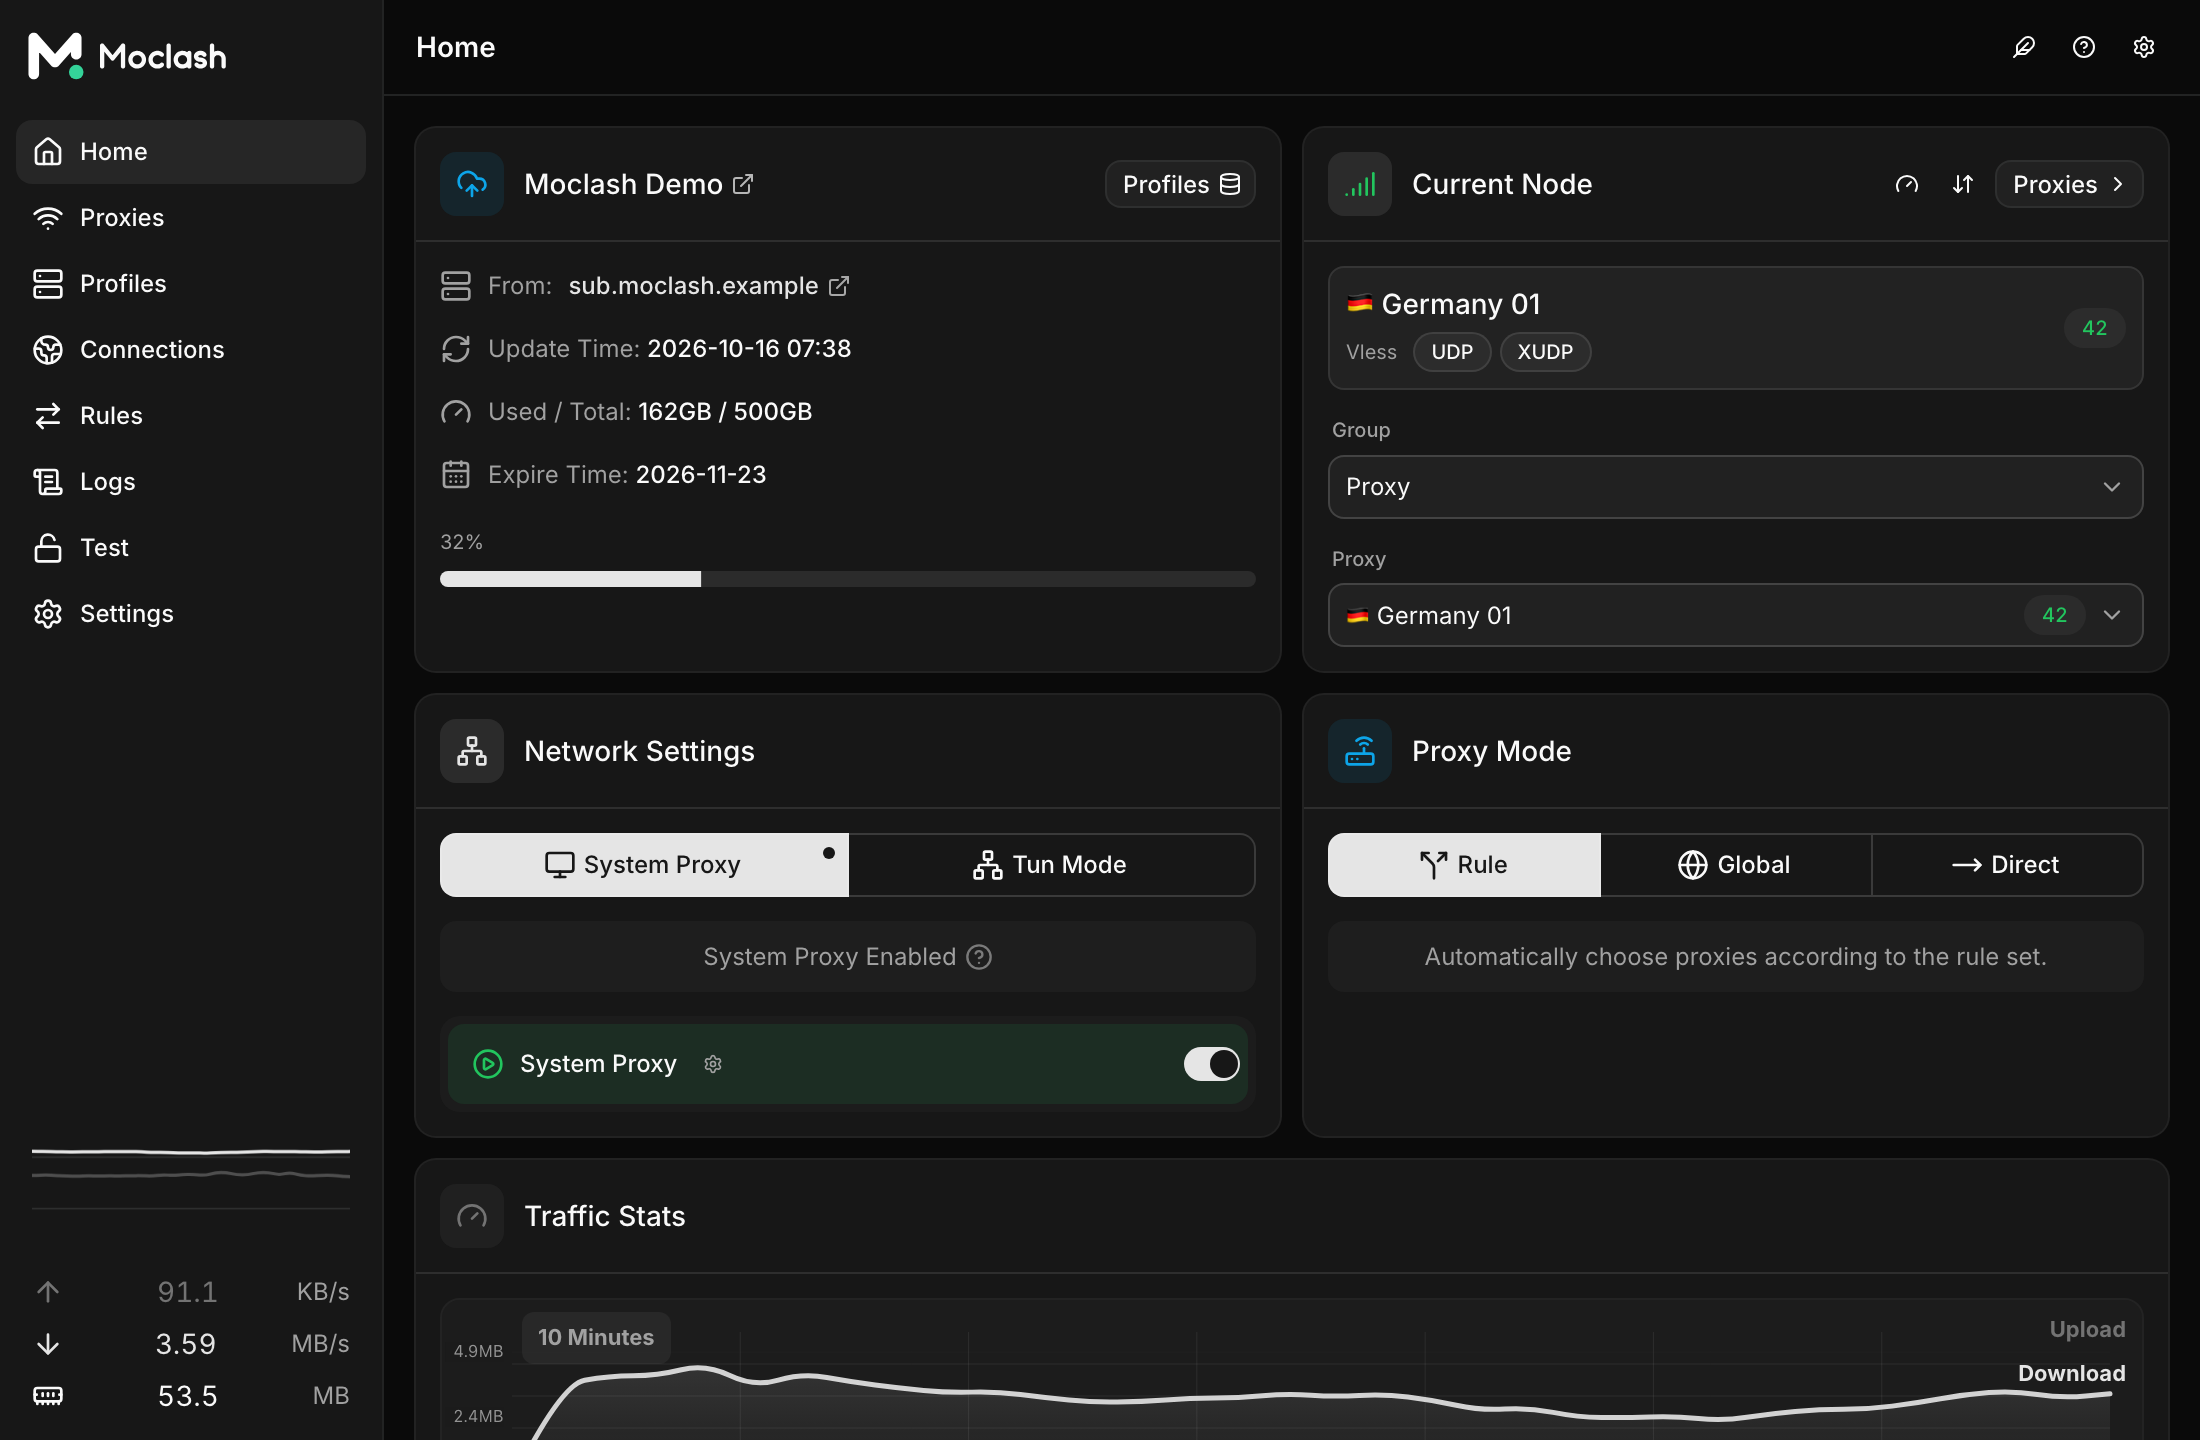
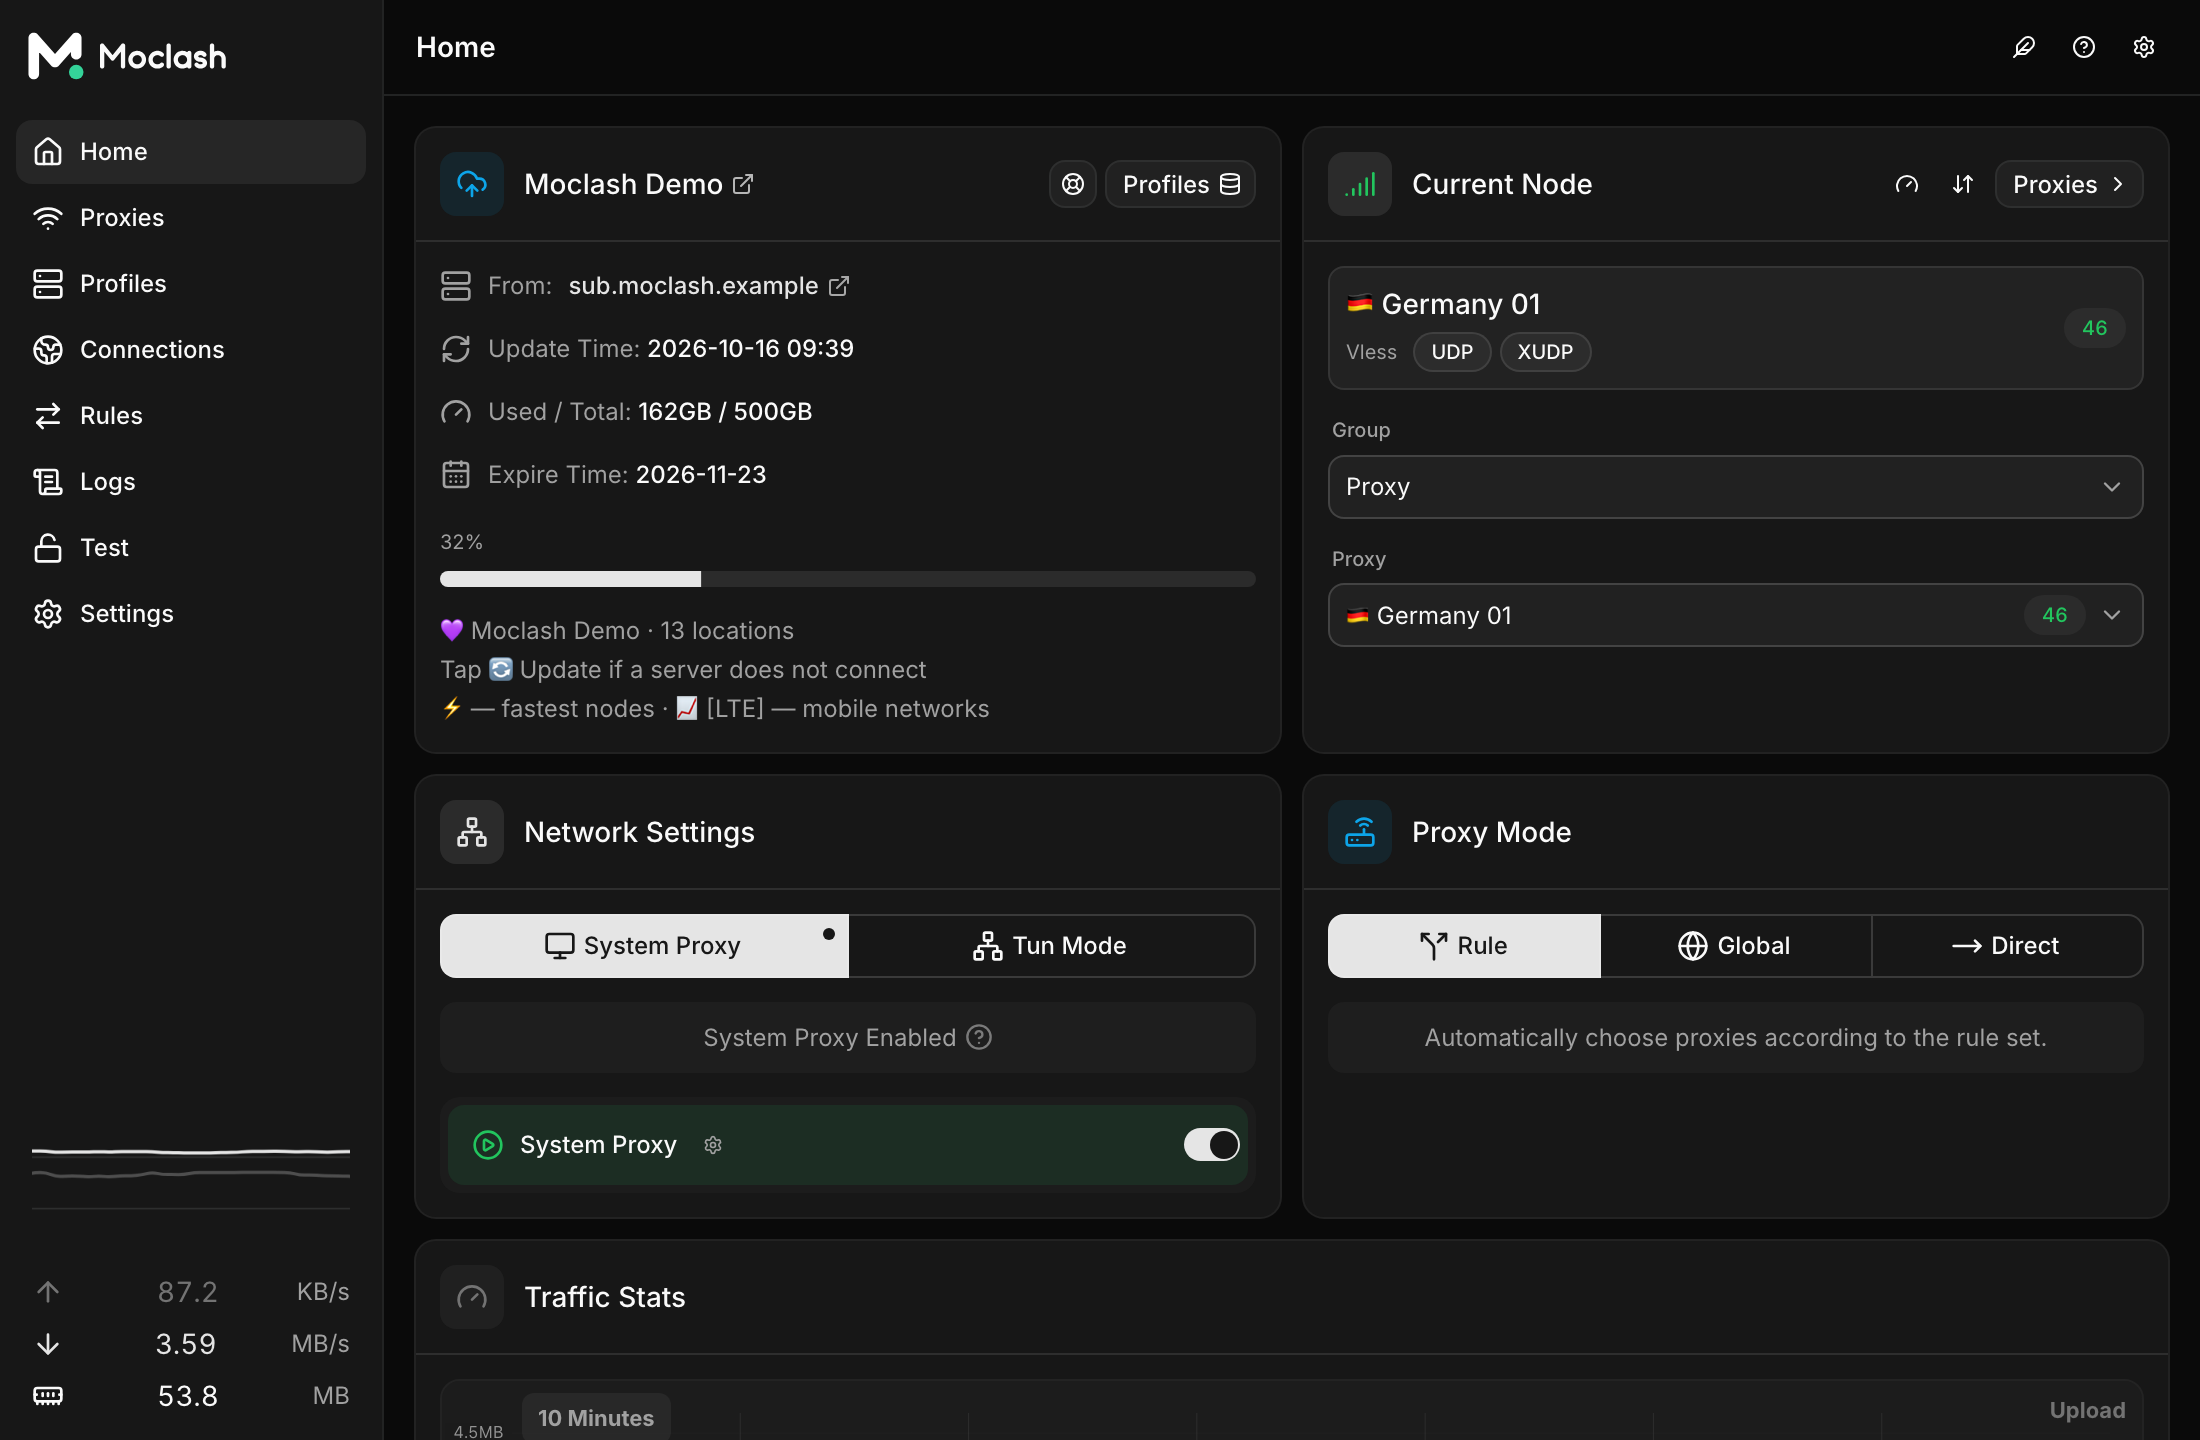
chore(release): v1.0.0
Start the Moclash version line at 1.0.0, finalize the changelog and
refresh the README screenshots and feature descriptions.

diff --git a/README.md b/README.md
@@ -65,6 +65,10 @@ xattr -cr "/Applications/Moclash.app"
 - Tray quick panel for switching the proxy mode and server without opening
   the main window (see below), plus the tray menu and global hotkeys.
 - **Send HWID** for subscriptions that enforce device limits (see below).
+- **Happ compatibility mode** that fetches the full Xray server list from
+  Remnawave-style panels and converts it to Mihomo (see below).
+- Subscription announcements, support links and titles sent by Remnawave
+  panels are shown on the profile cards.
 
 ## Tray quick panel
 
@@ -106,6 +110,27 @@ The HWID is derived from the operating system's machine ID (Windows
 and shortened to 16 hex characters, so the raw machine ID never leaves the
 device. You can override it with a custom HWID in the same settings section.
 The setting is off by default.
+
+## Happ compatibility mode
+
+Some subscription panels, such as Remnawave, return a different server list
+depending on the client. Mihomo clients may get a reduced YAML config, while
+Happ gets the complete list as Xray JSON, including VLESS XHTTP, VLESS
+Encryption and Trojan REALITY servers.
+
+Enable **Happ compatibility mode** when adding or editing a remote profile,
+next to the User-Agent field. Moclash then:
+
+- requests the subscription with the User-Agent of the latest Happ release
+  (you can still change it);
+- converts the Xray JSON configs (or share links) to Mihomo proxies, adds a
+  selector group with an automatic latency-based group, and converts the
+  panel's routing rules (direct, block, geosite, geoip, domains, CIDRs);
+- keeps traffic usage, announcements, the profile title and device-limit
+  handling working as usual.
+
+Servers that use features the bundled Mihomo core does not support are
+skipped and logged.
 
 ## Development
 

diff --git a/Changelog.md b/Changelog.md
@@ -1,10 +1,15 @@
-## v2.5.9 (Unreleased)
+## v1.0.0
 
 <details>
 <summary><strong> 🐞 Fixes </strong></summary>
 
 - Fix the proxy group navigator overlapping proxy group cards
 - Fix long setting descriptions being cut off
+- Fix the User-Agent entered for a new subscription not being saved
+
+**🍎 macOS**
+
+- Fix macOS reporting downloaded builds as damaged
 
 </details>
 
@@ -13,7 +18,10 @@
 
 - Add a redesigned interface built with shadcn/ui; the previous interface is kept as a fallback
 - Add the "Send HWID" setting for subscription providers that limit devices, with an optional custom HWID
-- Add a tray quick panel to switch the proxy mode and server without opening the main window
+- Add a tray quick panel to switch the proxy mode and server without opening the main window, with a power button that turns the system proxy and TUN off and back on
+- Add the Happ compatibility mode for subscriptions that send the full server list only to Happ, converting Xray configs to Mihomo
+- Show subscription announcements, support links and titles sent by Remnawave panels
+- Keep the last working servers and show a notice when a subscription reports that the device limit is reached
 
 </details>
 
@@ -23,5 +31,9 @@
 - Publish a "Moclash Nightly" build for every commit to `dev`
 - Rebrand the app as Moclash with a new icon set and its own data directory
 - Collapse the sidebar automatically on narrow windows
+
+**🍎 macOS**
+
+- Show Moclash under its own name in macOS Login Items
 
 </details>
